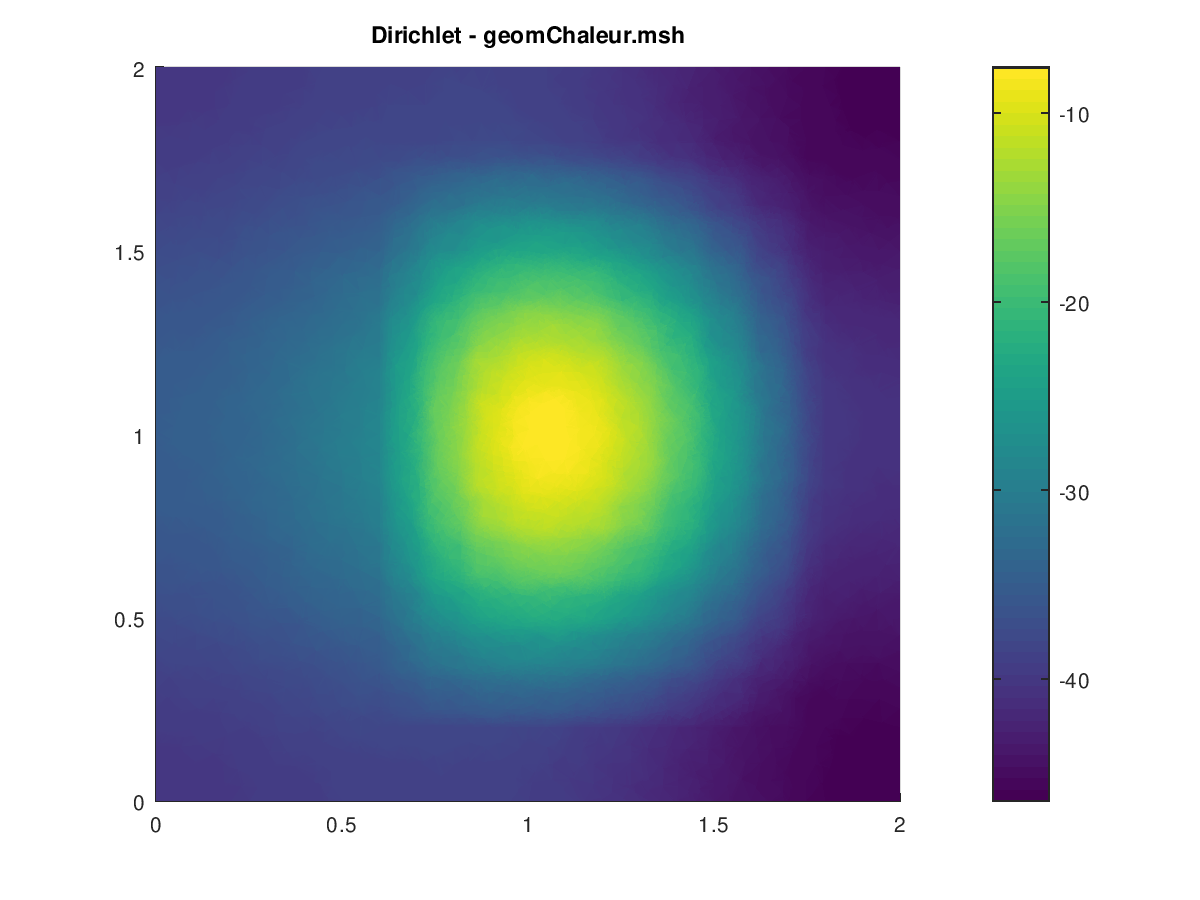
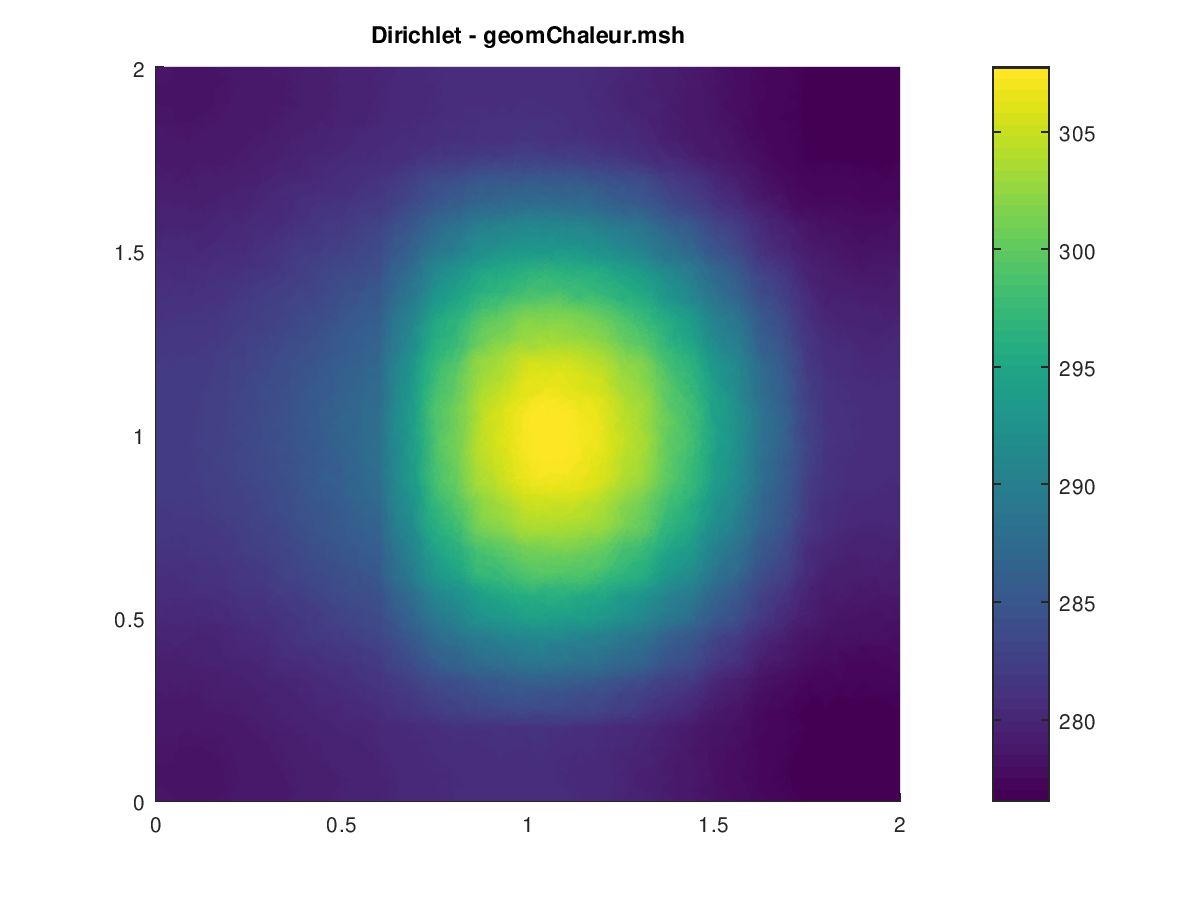
correction

diff --git a/SRC/principal_chaleur.m b/SRC/principal_chaleur.m
@@ -30,12 +30,13 @@
 % =====================================================
 % Donnees du probleme
 % ---------------------------------
-h = 0.05; lambda = 1;
+
+h = 0.05;
 system(['gmsh -2 -clmax ' num2str(h) ' -clmin ' num2str(h) ' geomChaleur.geo']);
 nom_maillage = 'geomChaleur.msh' ;
 
 validation = 'oui';
-pb_stationnaire = 'non';
+pb_stationnaire_Fourier = 'non';
 pb_temporel = 'non';
 
 if strcmp(validation,'oui')
@@ -100,8 +101,14 @@ end % for l
 % boucle sur les arrêtes
 % ------------------------
 for l=1:Nbaretes
-  if Refaretes(l) == 1
+  if 1 == 1%if Refaretes(l) == 2
     [Sel]=mat_elem_surface(Coorneu(Numaretes(l,1),:), Coorneu(Numaretes(l,2),:));
+    i = Numaretes(l,1);
+    j = Numaretes(l,2);
+    SS(i,i) += Sel(1,1);
+    SS(i,j) += Sel(1,2);
+    SS(j,i) += Sel(2,1);
+    SS(j,j) += Sel(2,2);
   end;
 end;
 

diff --git a/SRC/mat_elem_surface.m b/SRC/mat_elem_surface.m
@@ -1,4 +1,4 @@
-function [Sel] = mat_elem_surface(S1, S2, ref)
+function [Sel] = mat_elem_surface(S1, S2)
 %%%%%%%%%%%%%%%%%%%%%%%%%%%%%%%%%%%%%%%%%%%%%%%%%%%%%%%%%%%%%%%%%%%%%%%%%%%
 % mat_elem :
 % calcul les matrices de masse surfaciques pour les frontieres 
@@ -8,7 +8,7 @@ function [Sel] = mat_elem_surface(S1, S2, ref)
 %          
 % INPUT * S1, S2 : les 2 coordonnees des 2 sommets de l'arete 
 %                      (vecteurs reels 1x2)
-%         ref    : Reference de l'arete.
+%
 %
 % OUTPUT - Sel matrice de masse surfacique elementaire pour le bord de
 % reference ref

diff --git a/SRC/f.m b/SRC/f.m
@@ -11,7 +11,7 @@ function val = f(x,y)
 %
 %%%%%%%%%%%%%%%%%%%%%%%%%%%%%%%%%%%%%%%%%%%%%%%%%%%%%%%%%%%%%%%%%%%%%%%%%%%
 
-val = 600*exp(-((x-1)/0.8).^2-((y-1)/0.8).^2) - 1*290;
+val = 600*exp(-((x-1)/0.8).^2-((y-1)/0.8).^2);
 %val = (1+2*pi^2)*sin(pi*x)*sin(pi*y);
 %val = sin(pi*x/2)*sin(pi*y/2);
 %val = (1+2*pi^2)*cos(pi*x)*cos(pi*y);
